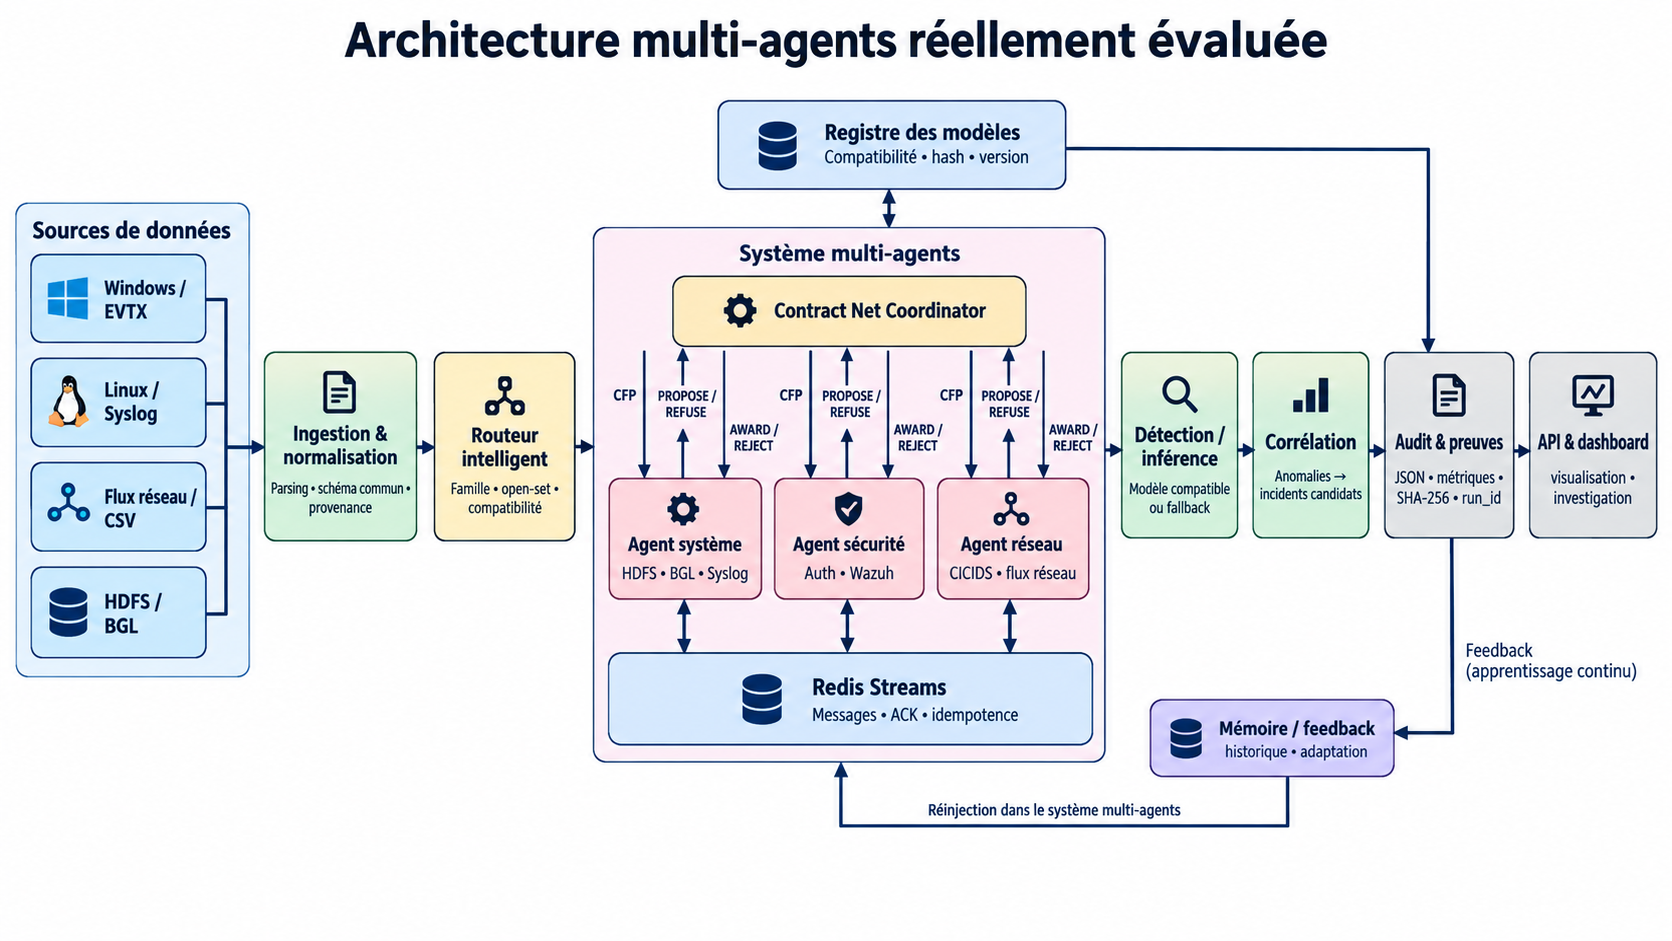
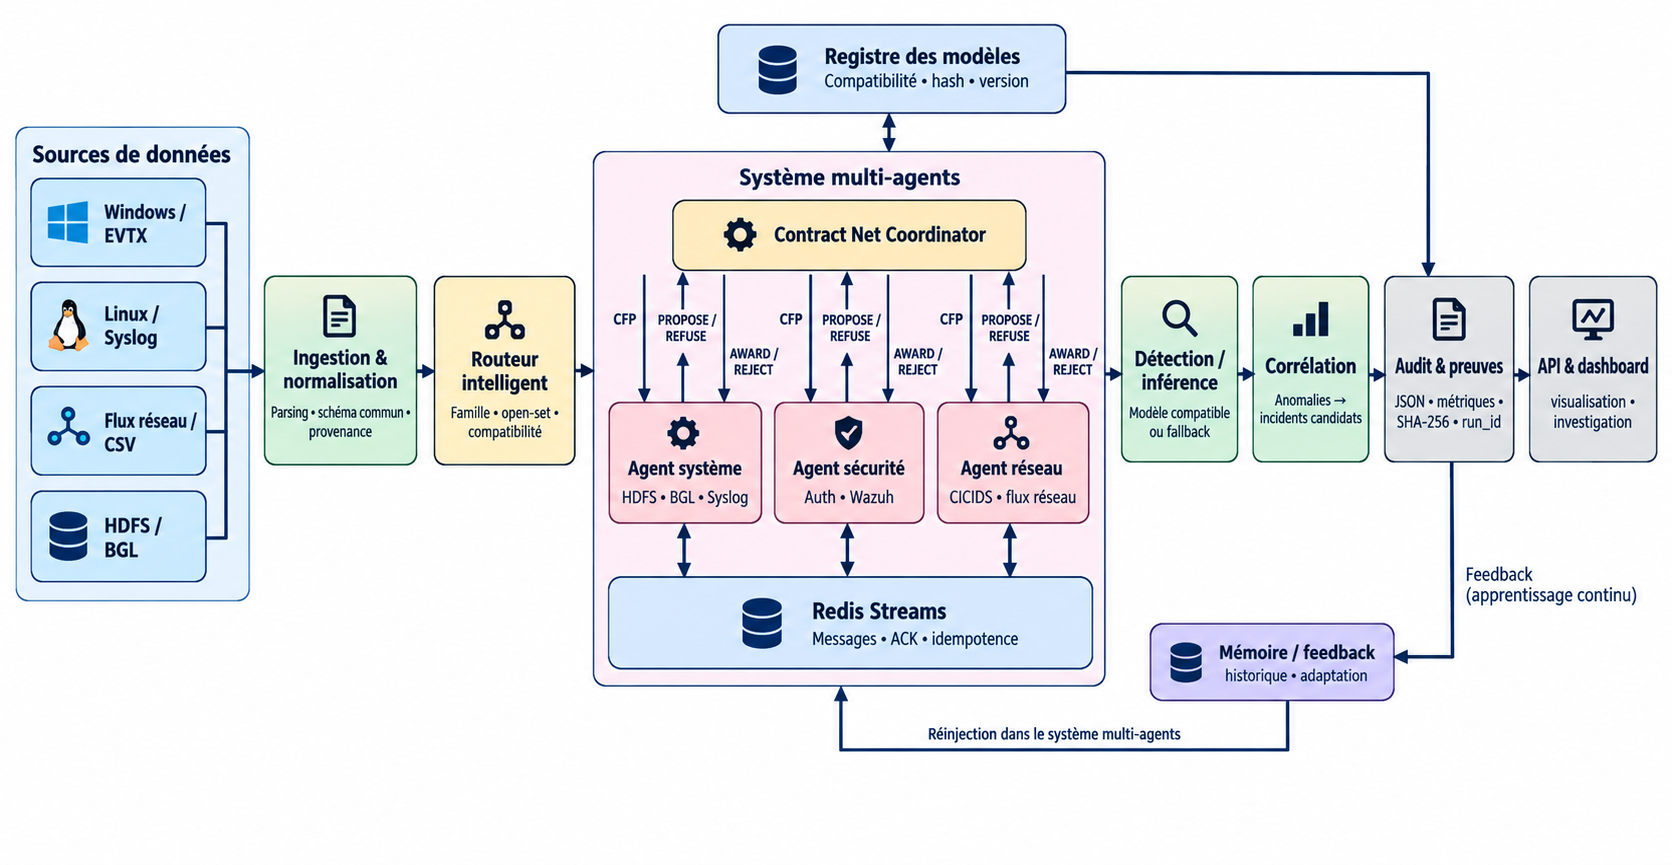
Rédaction_7 avant remise aux co-directeurs

diff --git a/ARIEL_LOGMINER_MEMOIRE_FINAL/chapters/chapitre2_etat_art.tex b/ARIEL_LOGMINER_MEMOIRE_FINAL/chapters/chapitre2_etat_art.tex
@@ -289,9 +289,7 @@ Supposons par exemple qu'un ensemble contienne 99\,\% d'événements normaux. Un
 qui prédit systématiquement la classe normale obtiendra 99\,\% d'accuracy tout en étant
 incapable de détecter la moindre attaque.
 Cette situation explique l'importance de métriques telles que la précision, le rappel, le
-F1-score, le MCC et l'aire sous la courbe précision--rappel. Leur définition détaillée est
-présentée dans le chapitre méthodologique ; dans l'état de l'art, le point essentiel est
-que la qualité d'un détecteur ne peut pas être résumée par une seule mesure.
+F1-score, le MCC et l'aire sous la courbe précision--rappel. La qualité d'un détecteur ne peut pas être résumée par une seule mesure.
 Le rappel renseigne sur la capacité à retrouver les éléments positifs, tandis que la
 précision indique quelle proportion des détections positives correspond réellement à la
 classe recherchée. Dans un contexte opérationnel, ces deux dimensions sont importantes :
@@ -327,8 +325,7 @@ Lorsque l'objectif est d'étudier la généralisation, une séparation par scén
 apporter une information complémentaire. Le modèle doit alors reconnaître une classe ou
 un comportement dans un contexte moins proche des exemples utilisés pendant
 l'entraînement.
-Le protocole expérimental distingue donc la \textit{performance sur une partition*
-*aléatoire} de la \textit{performance hors scénario d'entraînement}.
+Le protocole expérimental distingue donc la \textit{performance sur une partition aléatoire} de la \textit{performance hors scénario d'entraînement}.
 Cette précaution méthodologique s'inscrit dans un débat documenté par la littérature.
 Plusieurs travaux ont réexaminé CICIDS2017 après sa publication et identifié des
 problèmes de génération du trafic, de construction des flux, d'extraction des
